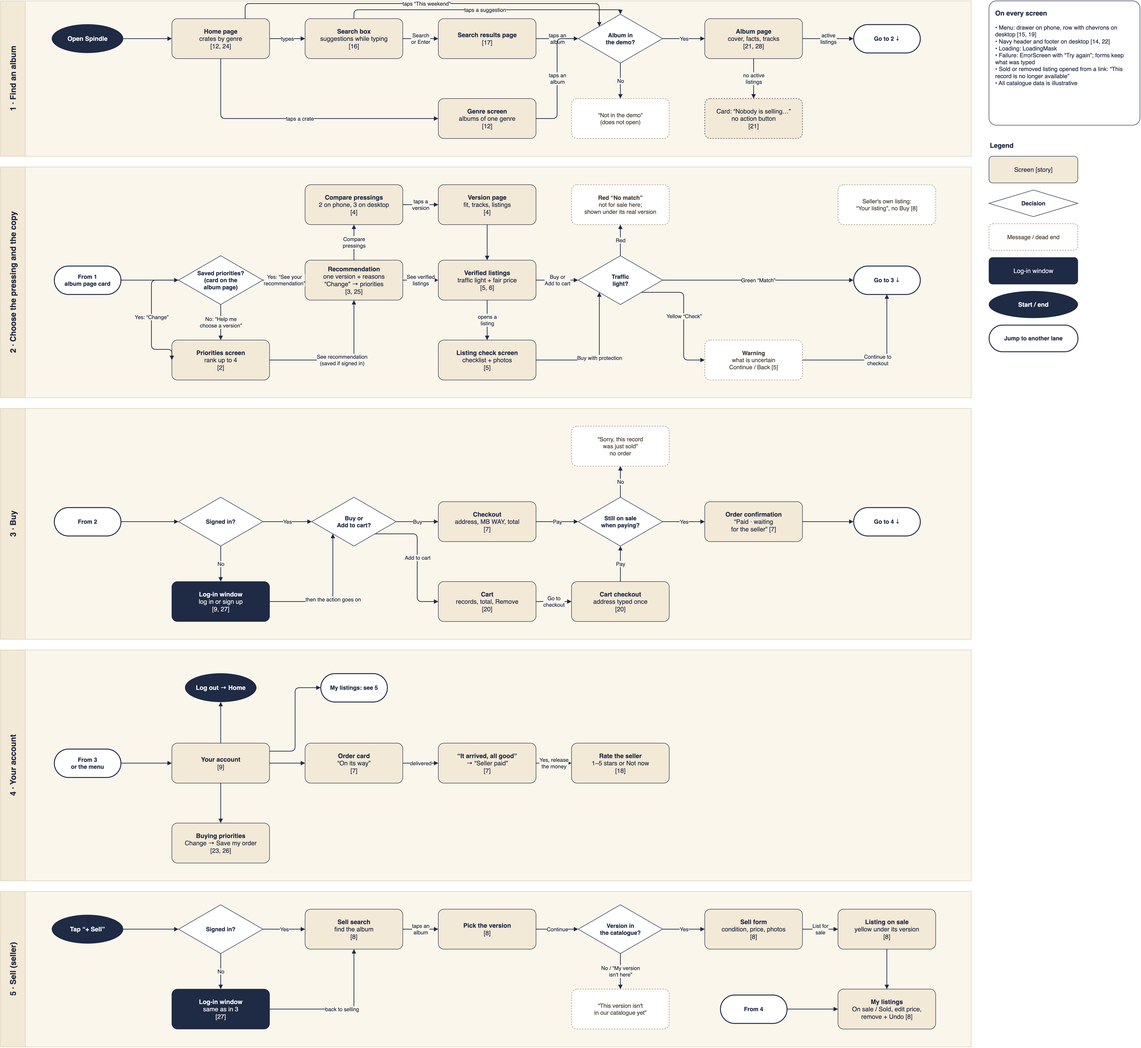
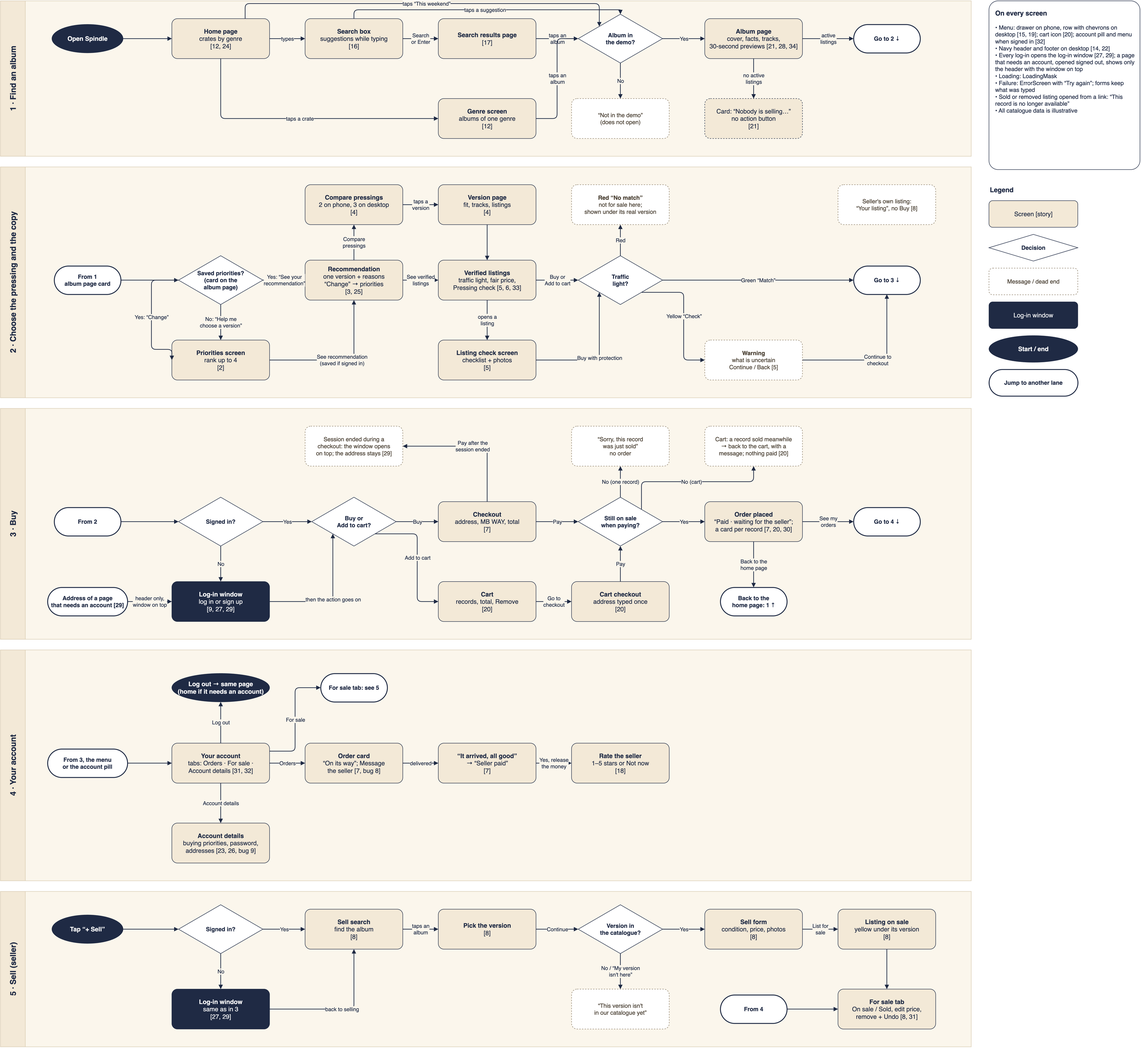
Docs after story 29: progress, use cases, flowchart, architecture
- PROGRESS.md: story 29 built; test results of this run (2 failures from a hand purchase on a seed listing)
- Use cases and flowchart updated for stories 29-34 and bugs 8, 9, 32
- ARCHITECTURE.md: final folder structure, testing rules, next-delivery notes
- Test helper: sign in with Enter instead of clicking Log in (slow phone runs)

diff --git a/tests/e2e/session.ts b/tests/e2e/session.ts
@@ -24,7 +24,9 @@ export async function signIn(page: Page, email: string, password: string) {
   await windowReady(page);
   await box.getByLabel("Email").fill(email);
   await box.getByLabel("Password").fill(password);
-  await box.getByRole("button", { name: "Log in" }).click();
+  // Enter sends the form, as the button does. On a slow phone run the click on "Log in" sometimes landed on the page
+  // under the window; tapping the button itself is tested in loginWindow.spec.ts and loginEverywhere.spec.ts.
+  await box.getByLabel("Password").press("Enter");
   // Logged in, the window opens the next page with a full page load, where no window is open (story 29: often the
   // same address, so the address alone does not say it is done).
   await page.waitForURL((url) => !url.pathname.startsWith("/login"));

diff --git a/docs/PROGRESS.md b/docs/PROGRESS.md
@@ -1,34 +1,34 @@
 <!-- page: https://claude.ai/artifact/W2xGvu3nfNcfcuxAv3hYsn -->
 # MVP progress
 
-Updated 2026-11-14 after stories 30–34 and bugs 30–31 · Deadline 23 Nov 2026 (moved from 15 Nov) · **9 days left**
+Updated 2026-11-14 after story 29 and bugs 27, 32 · Deadline 23 Nov 2026 (moved from 15 Nov) · **9 days left**
 
 ## Summary
-- **Stories:** 30 of 31 MVP stories built (17 with gaps), 0 in progress, 1 not started (story 29)
-- **Tests:** unit 774/774 · end-to-end 403/432 (29 skipped) — all pass (full suite, phone and desktop, 15.3 min). After that run, two small fixes (red listing top line, playing preview pill) were re-tested with their own suites: listings, pressing check, listing check, recommendation and album preview, all pass
+- **Stories:** 31 of 31 MVP stories built (18 with gaps), 0 in progress, 0 not started. Feature freeze: nothing new after story 29 (DECISIONS 2026-11-14)
+- **Tests:** unit 805/805 · end-to-end 404/439 (28 skipped), **7 failing** in the full run (19.8 min, phone and desktop). Re-run of those 6 files after a test fix: 54 passed, **2 failing** (`reviews.spec.ts:108`, phone and desktop). Cause: a purchase made by hand on seed listing …0036 (Helena's account, 14 Nov) added a second review to seller João Pinto; the test expects one. Not a code defect; the data needs the owner's decision. The other 5 failures were slow-run timing (crate drag, home sections, and the log-in click on phone, now sent with Enter in the test helper)
 - **Demo:** the happy path (search → album page → priorities → recommendation → listings → checkout → confirmation) passes its end-to-end tests on phone and desktop. Not rehearsed live
-- **Next:** story 29 (larger log-in window, every log-in in the window; covers bug 32). Nothing blocks it: no open findings, designs approved. It touches the account pages that story 31 just changed
-- **Risk:** 9 days, one story left (29) plus the brief items: 25 manual checks "Not run", no PDF, demo not rehearsed. Stories 30–34 are not committed or deployed yet. Story 34 (previews) would be cut first if time runs short
+- **Next:** no story left. Brief items: 26 manual checks (planned for 15 Nov), submission PDF, demo rehearsal, `docs/database.md` migration 0012
+- **Risk:** 9 days and no story left; the risk is in the brief items, not the code. The PDF is the largest one: its draft still lists 6 of 12 migrations and has screenshots only for stories 1–9, 12 and 17
 
 ## Against the brief
 | Criterion | Status | Evidence / what is missing |
 |---|---|---|
-| 1 · Core features work end to end | Done | Phases 1–3 built; the full end-to-end suite passes on phone and desktop, including search, recommendation, listings, checkout and confirmation. Not rehearsed live |
-| 2 · Data tables | Partly | `supabase/migrations/` is committed. `docs/database.md` does not mention migration 0012 (Classical genre) |
-| 3 · Testing, automated and manual | Partly | Automated: unit 774/774; end-to-end 403/432 (29 skipped), all pass. Manual: all 25 entries in `docs/manual-tests.md` are "Not run" (M25 new, bug 29) |
-| 4 · LLM good practices in the repo | Done | SPEC.md, `specs/`, CLAUDE.md, ARCHITECTURE.md, DECISIONS.md, `docs/AI_USAGE.md` and the tests are committed |
+| 1 · Core features work end to end | Done | Phases 1–3 built; the full end-to-end suite passes the core flow on phone and desktop (search, recommendation, listings, checkout, confirmation). Not rehearsed live |
+| 2 · Data tables | Partly | `supabase/migrations/` 0001–0012 committed. `docs/database.md` does not mention migration 0012 (Classical genre); the PDF draft lists only 0001–0006 |
+| 3 · Testing, automated and manual | Partly | Automated: unit 805/805; end-to-end 404/439 (28 skipped, 7 failing; 2 still failing after re-run, caused by data, see Summary). Manual: all 26 entries in `docs/manual-tests.md` are "Not run" |
+| 4 · LLM good practices in the repo | Done | SPEC.md, `specs/`, CLAUDE.md, ARCHITECTURE.md (updated 14 Nov to the final structure), DECISIONS.md, `docs/AI_USAGE.md`, use cases and flowchart (updated 14 Nov) and the tests |
 | 5 · UX and UI quality | Partly | `docs/ux-review/findings.json`: 6 open (2 Medium: #38, #39; 4 Low: #37, #40, #42, #43). No High or Blocker. Story 25 covers #38–#43 with tests, but the entries are still marked open |
-| 6 · App online and reachable | Done | https://spindle-three.vercel.app opened on 14 Nov (before stories 30–34): home and album pages load. Not re-checked in this run; stories 30–34 are not committed or pushed yet |
+| 6 · App online and reachable | Done | https://spindle-three.vercel.app checked on 14 Nov after a881f52: `/login` opens the home page with the two-panel window, `/cart` signed out shows "Log in to see your cart" (story 29, bug 32) |
 | 7 · Live demo | Partly | `docs/demo-script.md` exists, marked DRAFT, not rehearsed; it still says "due 15 Nov" |
 | S1 · Link to the running app | Done | https://spindle-three.vercel.app, checked online |
-| S2 · PDF with data tables and screenshots | Missing | No PDF. `docs/submission/spindle-submission.md` is marked DRAFT (says the address is missing; screenshots to retake) |
+| S2 · PDF with data tables and screenshots | Missing | No PDF. `docs/submission/spindle-submission.md` is a DRAFT: no address, migrations 0007–0012 missing, stories 14–34 missing, story 9 shows the old log-in page |
 
 ### Missing for the brief, by impact on the grade
-1. Submission PDF (S2): data tables and screenshots, after the final changes; add the Vercel address to the draft.
-2. Commit and push stories 30–34, then check the live site.
-3. Manual test record: 25 entries "Not run" in `docs/manual-tests.md` (test plan page: TC-46 and TC-47 new).
-4. Demo: rehearse `docs/demo-script.md` once; update the date and the address.
-5. `docs/database.md`: add migration 0012.
+1. Submission PDF (S2): migrations 0007–0012, screenshots of stories 14–34 and the new story 9 window, the Vercel address; retake screenshots after the manual checks.
+2. Manual test record: 26 entries "Not run" in `docs/manual-tests.md` (planned for 15 Nov).
+3. Demo: rehearse `docs/demo-script.md` once; update the date (23 Nov) and the address.
+4. `docs/database.md`: add migration 0012.
+5. Decide the hand purchase on seed listing …0036 (it breaks `reviews.spec.ts:108`).
 6. Close the UX entries that story 25 already fixed (#38–#43), if the owner agrees.
 
 ## Build phases
@@ -37,7 +37,7 @@ Updated 2026-11-14 after stories 30–34 and bugs 30–31 · Deadline 23 Nov 202
 | 1 · Core | 1, 2, 3, 5, 6, 12 | Done with gaps (manual checks not run) |
 | 2 · Purchase | 9, 7, 2 (save to account) | Done with gaps. Save to account: rows tested |
 | 3 · Seller | 8 | Done with gaps (manual checks not run) |
-| 4 · If time allows | 7 step 3, 17, 4, 18, 16, 15, 19, 20, 14, 22, 24, 21, 23, 25, 26, 27, 28, 31, 30, 32, 33, 29, 34 | 22 of 23 built (7 step 3, 18, 15, 19, 20, 14, 22, 24, 32, 33, 34 fully; 17, 4, 16, 21, 23, 25, 26, 27, 28, 30, 31 with gaps); 29 not started |
+| 4 · If time allows | 7 step 3, 17, 4, 18, 16, 15, 19, 20, 14, 22, 24, 21, 23, 25, 26, 27, 28, 31, 30, 32, 33, 29, 34 | All 23 built (7 step 3, 18, 15, 19, 20, 14, 22, 24, 32, 33, 34 fully; 17, 4, 16, 21, 23, 25, 26, 27, 28, 29, 30, 31 with gaps) |
 
 ## Stories
 | Story | Status | Requirements with automated test | Open findings |
@@ -67,7 +67,7 @@ Updated 2026-11-14 after stories 30–34 and bugs 30–31 · Deadline 23 Nov 202
 | 26 · Change buying priorities | Built with gaps | 5 of 6 | — |
 | 27 · Log in without leaving the page | Built with gaps | 5 of 6 | — |
 | 28 · One album page for every album | Built with gaps | 4 of 5 | — |
-| 29 · A larger log-in window, used for every log-in | Not started | 0 of 0 | — |
+| 29 · A larger log-in window, used for every log-in | Built with gaps | 5 of 6 | — |
 | 30 · Next steps after "Order placed" | Built with gaps | 4 of 5 | — |
 | 31 · Your account in tabs | Built with gaps | 4 of 5 | — |
 | 32 · Account button and menu | Built | 4 of 4 | — |
@@ -94,10 +94,11 @@ None. Every story with a spec file is in the build order.
 - Story 7: "Confirming…" mask and error screen on the order card; Your account page
 - Story 16: loading mask "Searching…"
 - Story 21: "The details of this album are not available right now."
-- Story 23: signed out, the account page redirects to log in
+- Story 23: signed out, the account page asks to log in (now the window of story 29)
 - Story 25: visible space between "Buy" and "Add to cart"
 - Story 26: loading mask "Saving…" and error screen with "Try again"
 - Story 27: loading mask and error screen with "Try again" in the log-in window (typing kept is tested)
+- Story 29: session ended during the cart checkout (the one-record checkout is tested)
 - Story 28: loading mask and error screen on the album page (manual test M24)
 - Bug 29: album details from live MusicBrainz (manual test M25; the automated tests use a local stub)
 - Story 30: loading mask and error screen on the cart's "Order placed" page
@@ -106,9 +107,9 @@ None. Every story with a spec file is in the build order.
 - Bug 30: real browser or password-manager autofill (the test sets the value without an event; check on the device where it was seen)
 
 ## Before the next step
-- Only one session at a time runs end-to-end tests (one shared database); no hand purchases on seed listings
-- Story 29 next (wave 2); it covers bug 32 (cart icon opens the log-in page). Expect it to touch `app/account/layout.tsx` and the tab pages
-- A new requirement becomes a new story
-- Bug 27 (the checkout asks for the name twice) and bug 32 are open; bugs 30 and 31 are fixed
-- Bug 29 is fixed in part: dates wrong in MusicBrainz itself stay wrong ("AM", "Whatever People Say I Am…")
-- Parked by the owner on 14 Nov, not logged yet: signed out, the buyer only learns at "Buy" that an account is needed (after album page, priorities, recommendation and listings). Decide after the brief items whether it becomes a bug or a story
+- Only one session at a time runs end-to-end tests (one shared database, port 3000); no hand purchases on seed listings (one on …0036 now breaks `reviews.spec.ts:108`)
+- Feature freeze: no new stories. A problem found in the manual checks becomes a bug (`/log-bug`)
+- Bugs 27 and 32 fixed (a881f52). Bug 29 fixed in part: dates wrong in MusicBrainz itself stay wrong
+- Unused since story 29: `app/login/LoginForm.tsx`, `app/signup/SignUpForm.tsx` and the `logIn` / `signUp` actions (removal waits for the owner's OK)
+- Next delivery notes are in ARCHITECTURE.md ("Next delivery"): server-only guard, split the largest screens, one session check
+- Parked by the owner on 14 Nov, not logged yet: signed out, the buyer only learns at "Buy" that an account is needed. With the freeze, a candidate for the next delivery

diff --git a/ARCHITECTURE.md b/ARCHITECTURE.md
@@ -17,37 +17,47 @@ Browser (phone or desktop)
 ## Folder structure
 
 ```
-app/                                ← screens (one folder per route)
-  page.tsx                          ← home (story 12)
-  search/                           ← results page /search?q=… (story 17)
-  albums/[albumId]/priorities/      ← story 2
-  albums/[albumId]/recommendation/  ← story 3 (+ listings beside it on desktop)
-  versions/[versionId]/listings/    ← story 5, phone screen
-  listings/[listingId]/             ← listing check (story 5)
-  checkout/[listingId]/             ← story 7
-  orders/[orderId]/                 ← order confirmation (story 7)
-  cart/ · cart/checkout/            ← story 20 (cart/add/[listingId] adds after a log-in)
-  login/                            ← sign in / create account (story 9)
-  sell/ · my-listings/              ← story 8 (phase 3)
-  compare/[albumId]/                ← story 4 (phase 4)
-components/                         ← shared UI: Header, LoadingMask, ErrorScreen, TrafficLight, PriceLabel,
-                                      ListingList, ListingsBeside, BuyButton, AddToCart, CartLink
-lib/external/                       ← fetches from outside services (MusicBrainz, Wikipedia); server only, nothing stored (story 21)
-lib/rules/                          ← business rules, pure functions, no database
-  recommendation.ts                 ← scores, weights, tie, alternative, ideal (story 3)
-  trafficLight.ts                   ← checklist → green / yellow / red (story 5)
-  fairPrice.ts                      ← below / typical / above (story 6)
-  checkoutTotal.ts                  ← record + €4.90 + €2.00 (story 7)
-  cartTotal.ts · cartAccess.ts      ← the cart total; who can add, which records stay (story 20)
-  albumSearch.ts                    ← title/artist match, newest first (story 1)
-  searchSuggestions.ts              ← up to 3 albums, tolerance by typed length (story 1)
-  activeListings.ts                 ← which listings count (Shared rules)
-lib/db/                             ← all database access (Supabase), one file per entity
-supabase/migrations/                ← tables (next step: docs/database.md)
-supabase/seed.sql                   ← illustrative data (albums, versions, listings)
-tests/unit/                         ← Vitest: decision tables for lib/rules
-tests/e2e/                          ← Playwright: critical flows
-docs/design/ · docs/spec-review/
+app/                                  ← screens (one folder per route), with their server actions
+  page.tsx                            ← home: crates by genre, "This week at the shop" (stories 12, 24)
+  genres/[genre]/                     ← genre screen (story 12)
+  search/                             ← results page /search?q=… (story 17)
+  albums/[albumId]/                   ← album page: facts, tracks, 30-second previews (stories 21, 28, 34)
+  albums/[albumId]/priorities/        ← story 2
+  albums/[albumId]/recommendation/    ← story 3 (+ listings beside it on desktop)
+  albums/[albumId]/compare/           ← story 4
+  versions/[versionId]/               ← version page (story 4)
+  versions/[versionId]/listings/      ← verified listings, phone screen (stories 5, 33)
+  listings/[listingId]/               ← listing check (story 5)
+  checkout/[listingId]/               ← story 7
+  cart/ · cart/checkout/ · cart/add/  ← story 20 (cart/add/[listingId] adds after a log-in)
+  orders/[id]/ · orders/placed/       ← "Order placed" for one record, or for a cart (stories 7, 30)
+  account/                            ← Your account: Orders, For sale, Account details tabs (stories 31, 23, 26; bugs 8, 9)
+  sell/                               ← sell search → pick the version → sell form (story 8)
+  my-listings/                        ← old address: opens the For sale tab (story 31)
+  login/ · signup/                    ← the home page with the log-in window open (story 29)
+components/                           ← shared UI. Among them:
+  Header · MainMenu · AccountMenu · CartLink · Footer          ← header, menu, account pill, cart icon (stories 14, 15, 19, 20, 22, 32)
+  LoadingMask · ErrorScreen                                    ← the only loading and error screens (Shared rules)
+  LoginWindow · LoginWindowLink · LoginGate · SignInRequired   ← every log-in in one window; pages that need an account (stories 27, 29)
+  PageTrail                                                    ← the previous page in the tab, for closing the log-in window (story 29)
+  TrafficLight · PressingCheck · ListingList · ListingsBeside  ← listings (stories 5, 33)
+  BuyButton · AddToCart · OrderProgress · OrderPlacedActions   ← buying (stories 7, 20, 30)
+lib/rules/                            ← business rules: pure functions, no database, no screens (one unit test file each)
+  recommendation.ts · compare.ts      ← scores, weights, tie, alternative (stories 3, 4)
+  trafficLight.ts · listingCheck.ts   ← checklist → green / yellow / red (story 5)
+  fairPrice.ts                        ← below / typical / above (story 6)
+  checkoutTotal.ts · cartTotal.ts     ← record + €4.90 + €2.00; the cart total (stories 7, 20)
+  albumSearch.ts · searchSuggestions.ts ← title/artist match, newest first; close titles (stories 1, 16)
+  loginWindow.ts · login.ts · signUp.ts ← window titles, where to go after logging in, sign-up rules (stories 9, 27, 29)
+  … one file per rule; the SPEC's Traceability table names each one
+lib/db/                               ← all database access (Supabase), one file per entity; server only
+lib/external/                         ← outside services, server only: albumDetails.ts (MusicBrainz, Wikipedia), itunes.ts (previews); answers kept for one day
+supabase/migrations/                  ← tables, 0001–0012 (described in docs/database.md)
+supabase/seed.sql                     ← illustrative data (albums, versions, listings)
+tests/unit/                           ← Vitest: decision tables for lib/rules
+tests/e2e/                            ← Playwright: critical flows, each at 375 px (phone) and 1280 px (desktop)
+specs/stories/ · specs/bugs/          ← one file per story and per bug (index in SPEC.md)
+docs/                                 ← database.md, use-cases.md, app-flowchart, design/, manual-tests.md, reviews, screenshots
 ```
 
 ## Rules live in one place
@@ -61,14 +71,19 @@ Every rule the SPEC marks "in one function, covered by unit tests" is a pure fun
 3. If nothing matches, `lib/rules/searchSuggestions` picks up to 3 close titles
 4. The screen shows the albums (newest first) or the suggestions
 
-## Public API — later, not in the MVP
+## Next delivery — noted, not in the MVP
 
-The next assignments will need the app to be reachable by other applications. The API is built when that brief is known. Keeping every rule in `lib/rules/` means the API can reuse them without reorganising the code.
+- **Public API.** The next assignments will need the app to be reachable by other applications. The API is built when that brief is known. Keeping every rule in `lib/rules/` means the API can reuse them without reorganising the code.
+- **Guard the server-only code.** `lib/db/` and `lib/external/` must never reach the browser. Today this holds by convention (the secret key has no `NEXT_PUBLIC_` prefix, so it is never sent), but a wrong import would only show when the app runs. Next delivery: mark these folders as server only, so the build itself refuses such an import (needs one small package, `server-only`; ask before installing).
+- **Split the largest screens.** `components/LoginWindow.tsx` (~370 lines) into the left panel, the log-in form and the sign-up form; `app/my-listings/MyListings.tsx` (~400 lines) into the listing row, edit price and remove with Undo. Same behaviour, smaller files with one job each.
+- **Check the session once.** About 24 pages each ask "is someone signed in?" at their top. Group the pages that need an account under one route group (e.g. `app/(signed-in)/`) whose layout checks the session once and returns `SignInRequired`, so a new page cannot forget it.
 
 ## Testing
 
 - **Unit (Vitest):** one test file per rule in `lib/rules/`, written as decision tables from the SPEC's acceptance criteria and example data
-- **End-to-end (Playwright):** search → priorities → recommendation → listing → checkout; login from Buy returns to the checkout; (phase 3) sell and see the listing
+- **End-to-end (Playwright):** search → priorities → recommendation → listing → checkout; log in from Buy goes on to the checkout; sell and see the listing; cart; Your account. Every spec runs twice, at 375 px and at 1280 px
+- **One suite at a time:** the end-to-end tests share one database and port 3000, so two runs at once fail at random. Stop any other development server first
+- **Manual checks:** what the automated tests cannot see (loading masks, error screens, live outside services) is in `docs/manual-tests.md`
 - Every story's tests are listed in the SPEC's Traceability table
 
 ## Conventions
@@ -76,3 +91,4 @@ The next assignments will need the app to be reachable by other applications. Th
 - Language: **TypeScript**
 - Styling: **Tailwind CSS**, colours and fonts from the Assignment 1 designs
 - Shared rules (loading mask, error screen) come from `components/`, never rebuilt per screen
+- A page that needs an account checks the session at its top and, signed out, returns `SignInRequired` (story 29); it never redirects to a log-in page

diff --git a/docs/use-cases.md b/docs/use-cases.md
@@ -1,6 +1,6 @@
 # Spindle MVP — Use cases
 
-> Compiled from the "Use cases" of each story in `specs/`. Stories 3, 4, 6, 21 and 23 have no "Use cases" section, so their entries (UC-6, UC-7, UC-10, UC-30, UC-33) are taken from the story's Scope and Acceptance criteria. Stories 22 and 25 only change how pages look and add no use case. Story 28 changes where an album tap leads: every album opens its album page first (UC-35). Criteria and edge cases stay in the stories: this file only lists what a user can do and where it is specified. All catalogue data is illustrative.
+> Compiled from the "Use cases" of each story in `specs/`. Stories 3, 4, 6, 21 and 23 have no "Use cases" section, so their entries (UC-6, UC-7, UC-10, UC-30, UC-33) are taken from the story's Scope and Acceptance criteria. Stories 22 and 25 only change how pages look and add no use case. Story 28 changes where an album tap leads: every album opens its album page first (UC-35). Story 29 moves every log-in into one window (UC-22, UC-41); stories 30–32 change what follows a payment and how Your account is reached (UC-15, UC-21, UC-25, UC-32c, UC-36, UC-37); story 33 only adds a "Pressing check" line to each listing (UC-9). Bugs 8 and 9 added UC-39 and UC-40. Criteria and edge cases stay in the stories: this file only lists what a user can do and where it is specified. All catalogue data is illustrative.
 
 ## Actors
 - **Buyer**: a non-specialist who wants the right pressing of a record and a safe purchase. Signed out or signed in.
@@ -17,6 +17,7 @@
 | UC-30 | Open an album with no listings and read about it | Release date, label, track list and "About [musician]" with a Wikipedia link; "Nobody is selling this album right now" stays | 21 |
 | UC-31 | Scroll to the bottom of any page on desktop | Footer with the basics about Spindle | 14 |
 | UC-35 | Open an album on sale and decide how to go on | Album page with cover, facts and tracks; "Help me choose a version" (priorities), or "See your recommendation · Based on: … · Change" with a saved ranking | 28 |
+| UC-38 | Listen to a track on the album page | 30 seconds play; playing another track stops the first; no previews when none is found | 34 |
 
 ## Buyer: choose the pressing
 | # | Use case | Result | Story |
@@ -28,7 +29,7 @@
 ## Buyer: choose the copy
 | # | Use case | Result | Story |
 |---|---|---|---|
-| UC-9 | See verified listings for a version | Green "Match" / yellow "Check" / red "No match", cheapest first | 5 |
+| UC-9 | See verified listings for a version | Green "Match" / yellow "Check" / red "No match", cheapest first; each card says its "Pressing check" result | 5, 33 |
 | UC-10 | See whether a price is fair | Below / typical / above the pressing's range | 6 |
 | UC-11 | Open a listing check | Checklist, photos, condition in plain words | 5 |
 | UC-12 | See a red listing | Warning here; also shown yellow under its correct version | 5 |
@@ -38,35 +39,41 @@
 |---|---|---|---|
 | UC-13 | Buy a green listing | Checkout | 5, 7 |
 | UC-14 | Buy a yellow listing | Warning about what is uncertain, then checkout | 5, 7 |
-| UC-15 | Pay (simulated, no card or bank details) | Order "Paid · waiting for the seller", confirmation screen | 7 |
+| UC-15 | Pay (simulated, no card or bank details) | Order "Paid · waiting for the seller"; "Order placed" with See my orders and Back to the home page | 7, 30 |
 | UC-16 | Confirm receipt of a delivered order | Order becomes "Seller paid" | 7 (step 3) |
 | UC-17 | Rate the seller (1 to 5 stars, or "Not now" and rate later) | Seller summary on listings updates | 18 |
 | UC-18 | Buy a record that was just sold | "Sorry, this record was just sold", no order | 7 |
+| UC-39 | Message the seller about a paid order (one message) | "You wrote" on the order; the seller reads it under the sold record | bug 8 |
 
 ## Buyer: cart
 | # | Use case | Result | Story |
 |---|---|---|---|
-| UC-32a | Add a green or yellow listing to the cart (signed out → log in first) | Record in the cart | 20 |
-| UC-32b | Open the cart from the menu; remove a record | Records, total, "Remove"; total recalculated | 20 |
-| UC-32c | Go to checkout and pay the total | One order per record, each "Paid · waiting for the seller" | 20 |
+| UC-32a | Add a green or yellow listing to the cart (signed out → the log-in window first) | Record in the cart | 20, 27 |
+| UC-32b | Open the cart from the cart icon in the header; remove a record | Records, total, "Remove"; total recalculated. Signed out: the window "Log in to see your cart", then the cart | 20, bug 32 |
+| UC-32c | Go to checkout and pay the total | One order per record, each "Paid · waiting for the seller"; "Order placed" with one card per record and the total | 20, 30 |
 | UC-32d | A record in the cart is sold to someone else | It leaves the cart with a message; total recalculated | 20 |
 
 ## Account (buyer and seller)
 | # | Use case | Result | Story |
 |---|---|---|---|
-| UC-19 | Sign up | Account created, signed in | 9 |
-| UC-20 | Log in | Signed in; wrong password shows a message | 9 |
-| UC-21 | Log out (from Your account) | Signed out, back to home | 9 |
-| UC-22 | Buy or Sell while signed out | Log in or sign up, then back to checkout or to the sell form | 9 |
-| UC-23 | Use the menu (Home, Sell, Your account / Log in) | Drawer on phone, row on desktop | 15 |
-| UC-33 | See my buying priorities on Your account | Saved order, numbered from 1; no section if nothing is saved | 23 |
+| UC-19 | Sign up (in the log-in window, "Create one") | Account created, signed in | 9, 29 |
+| UC-20 | Log in (in the log-in window; `/login` opens the home page with it) | Signed in, on the same page; wrong password shows a message | 9, 27, 29 |
+| UC-21 | Log out (from the account menu, or Account details) | Signed out on the same page; a page that needs an account goes home | 9, 31, 32 |
+| UC-22 | Buy, Add to cart, Sell or open the cart while signed out | The log-in window (with the record when there is one); after logging in the action goes on | 27, 29 |
+| UC-41 | Open a page that needs an account by its address while signed out (checkout, cart, sell, Your account, orders) | Only the header, with the log-in window on top; after logging in the page shows; closing goes back, or home | 29 |
+| UC-42 | The session ends during a checkout | The log-in window opens on the checkout; the address typed is kept | 29 |
+| UC-23 | Use the menu (Home, Sell, Your account / Log in, Cart) | Drawer on phone, row on desktop | 15, 19, 20 |
+| UC-36 | Open Your account | Profile header and three tabs: Orders, For sale, Account details | 31 |
+| UC-37 | Open the account menu (the initials pill) | Name, email, Orders, For sale, Account details, Log out | 32 |
+| UC-40 | Change my password; save a delivery address | Saved on Account details; the checkout starts with the saved address | bug 9 |
+| UC-33 | See my buying priorities on Your account (Account details) | Saved order, numbered from 1; no section if nothing is saved | 23 |
 | UC-34 | Change my buying priorities from Your account | New order shown; the next recommendation uses it | 26 |
 
 ## Seller
 | # | Use case | Result | Story |
 |---|---|---|---|
 | UC-24 | List a record: search album, pick version, fill the form, publish | Listing appears under that version, yellow | 8 |
-| UC-25 | See my listings | "On sale" and "Sold" tabs | 8 |
+| UC-25 | See my listings (Your account, For sale tab; `/my-listings` opens it) | "On sale" and "Sold"; buyers' messages under sold records | 8, 31, bug 8 |
 | UC-26 | Edit the price of a listing on sale | New price saved, label updated | 8 |
 | UC-27 | Remove a listing, with confirmation | "Listing removed" | 8 |
 | UC-28 | Undo a removal within 5 seconds | Listing on sale again as before | 8 |
@@ -77,5 +84,5 @@
 - A sold or removed listing opened from a link → "This record is no longer available".
 
 ## Not in the MVP
-- Stories 10, 11 and 13.
+- Stories 10, 11 (except its previews, now story 34) and 13.
 - Out of scope: artist pages, new (sealed) records, real payments and shipping, automatic photo and matrix checks, AI-written text, Google and Apple sign-in, real catalogue data.
